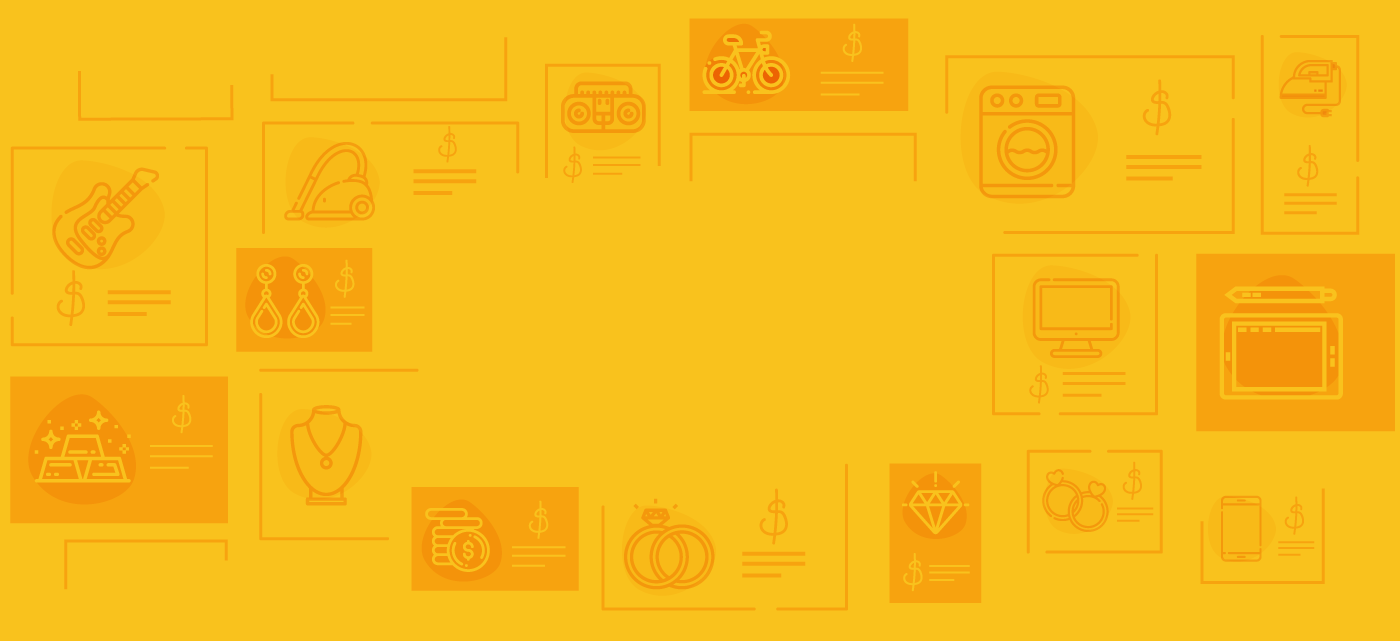
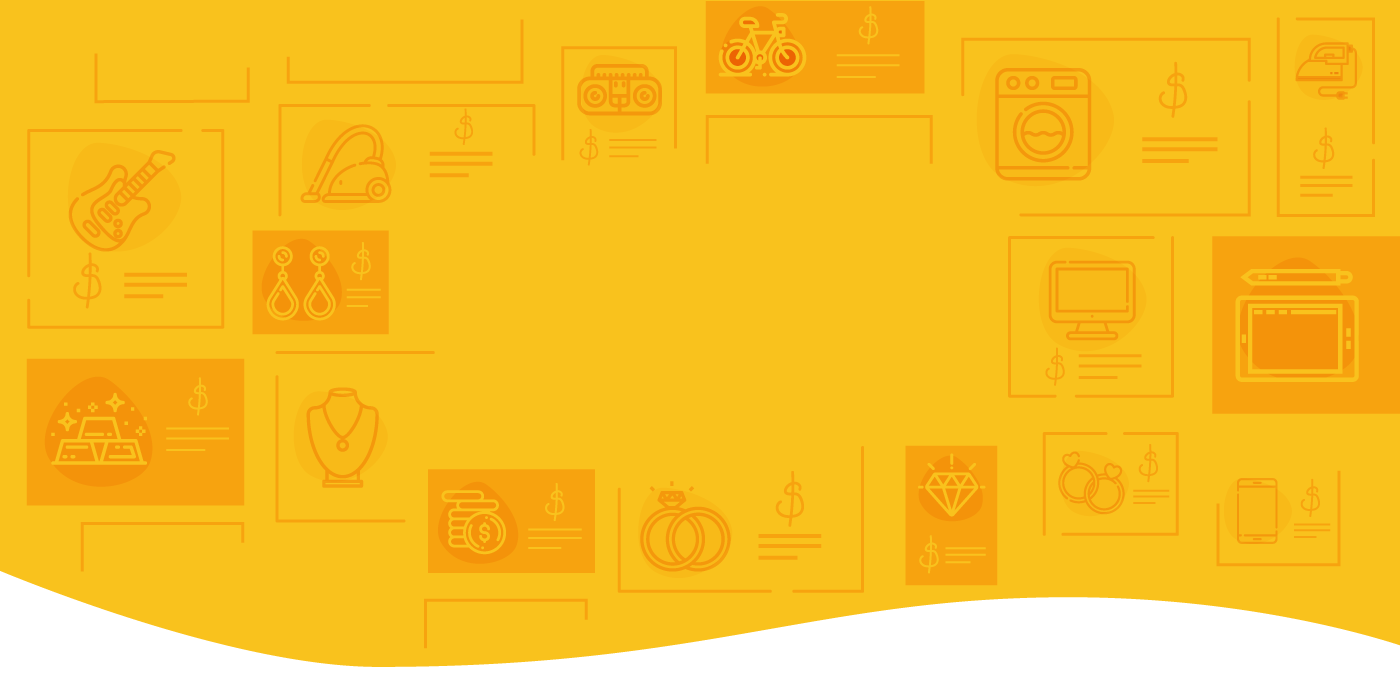
home ready

diff --git a/static/css/core.css b/static/css/core.css
@@ -1,1 +1,1 @@
-*,*::before,*::after{box-sizing:border-box}html{font-family:'Rubik', -apple-system, BlinkMacSystemFont, "Segoe UI", Roboto, Helvetica, Arial, sans-serif, "Apple Color Emoji", "Segoe UI Emoji", "Segoe UI Symbol";font-size:15px;-webkit-text-size-adjust:100%;-ms-text-size-adjust:100%;-ms-overflow-style:scrollbar;-webkit-tap-highlight-color:transparent}@-ms-viewport{width:device-width}article,aside,dialog,figcaption,figure,footer,header,hgroup,main,nav,section{display:block}body{margin:0;font-family:'Rubik', -apple-system, BlinkMacSystemFont, "Segoe UI", Roboto, "Helvetica Neue", Arial, sans-serif, "Apple Color Emoji", "Segoe UI Emoji", "Segoe UI Symbol";font-size:1rem;font-weight:300;color:#212529;text-align:left;background-color:#fff}[tabindex="-1"]:focus{outline:0 !important}hr{box-sizing:content-box;height:0;overflow:visible}h1,h2,h3,h4,h5,h6{margin-top:0;margin-bottom:.5em}p{margin-top:0;margin-bottom:1rem}abbr[title],abbr[data-original-title]{text-decoration:underline;-webkit-text-decoration:underline dotted;text-decoration:underline dotted;cursor:help;border-bottom:0}address{margin-bottom:1rem;font-style:normal;line-height:inherit}ol,ul,dl{margin-top:0;margin-bottom:1rem;padding-left:20px}ol ol,ul ul,ol ul,ul ol{margin-bottom:0}dt{font-weight:700}dd{margin-bottom:.5rem;margin-left:0}blockquote{margin:0 0 1rem}dfn{font-style:italic}b,strong{font-weight:bolder}small{font-size:80%}sub,sup{position:relative;font-size:75%;line-height:0;vertical-align:baseline}sub{bottom:-.25em}sup{top:-.5em}a{color:#007bff;text-decoration:none;background-color:transparent;-webkit-text-decoration-skip:objects}a:hover{color:#0056b3;text-decoration:none}a:not([href]):not([tabindex]){color:inherit;text-decoration:none}a:not([href]):not([tabindex]):hover,a:not([href]):not([tabindex]):focus{color:inherit;text-decoration:none}a:not([href]):not([tabindex]):focus{outline:0}pre,code,kbd,samp{font-family:monospace, monospace;font-size:1em}pre{margin-top:0;margin-bottom:1rem;overflow:auto;-ms-overflow-style:scrollbar}figure{margin:0 0 1rem}img{vertical-align:middle;border-style:none}svg:not(:root){overflow:hidden}table{border-collapse:collapse}caption{padding-top:0.75rem;padding-bottom:0.75rem;color:#6c757d;text-align:left;caption-side:bottom}th{text-align:inherit}label{display:inline-block;margin-bottom:5px}button{border-radius:0}button:focus{outline:1px dotted;outline:5px auto -webkit-focus-ring-color}input,button,select,optgroup,textarea{margin:0;font-family:inherit;font-size:inherit;line-height:inherit}button,input{overflow:visible}button,select{text-transform:none}button,html [type="button"],[type="reset"],[type="submit"]{-webkit-appearance:button}button::-moz-focus-inner,[type="button"]::-moz-focus-inner,[type="reset"]::-moz-focus-inner,[type="submit"]::-moz-focus-inner{padding:0;border-style:none}input[type="radio"],input[type="checkbox"]{box-sizing:border-box;padding:0}input[type="date"],input[type="time"],input[type="datetime-local"],input[type="month"]{-webkit-appearance:listbox}textarea{overflow:auto;resize:vertical}fieldset{min-width:0;padding:0;margin:0;border:0}legend{display:block;width:100%;max-width:100%;padding:0;margin-bottom:.5rem;font-size:1.5rem;line-height:inherit;color:inherit;white-space:normal}progress{vertical-align:baseline}[type="number"]::-webkit-inner-spin-button,[type="number"]::-webkit-outer-spin-button{height:auto}[type="search"]{outline-offset:-2px;-webkit-appearance:none}[type="search"]::-webkit-search-cancel-button,[type="search"]::-webkit-search-decoration{-webkit-appearance:none}::-webkit-file-upload-button{font:inherit;-webkit-appearance:button}output{display:inline-block}summary{display:list-item;cursor:pointer}template{display:none}[hidden]{display:none !important}.container{max-width:1000px;margin:0 auto;padding:0 1rem}.Top_row{display:flex;justify-content:space-between;align-items:center;height:65px}.Top_logo{height:45px}.Top_list{position:absolute;left:0;top:65px;right:0;display:flex;flex-direction:column;background:#fff}.Top_item{padding:10px 10px;color:#000;border-top:1px solid rgba(0,0,0,0.05)}.Top_menu_icon{width:20px;height:20px}.Top_list_desktop{display:none}.Top_item_button{color:rgba(0,0,0,0.75) !important;font-weight:bold;border:2px solid #000 !important;border-radius:2px !important}.Top_item_button:hover{color:#000}@media screen and (min-width: 600px){.Top_list{position:relative;left:0;top:0;right:0;display:flex;flex-direction:row;background:none}.Top_item{padding:5px 10px;color:#000;border-top:none}.Top_menu_icon{display:none}.Top_list_desktop{display:block}}.home-welcome{display:flex;flex-direction:column;justify-content:center;align-items:center;padding:100px 15px;margin-bottom:30px;text-align:center;background-color:#F1CF00;background-image:url("/static/img/cover.png");background-size:'cover';background-repeat:no-repeat;background-position:center}.home-welcome-img{width:100%;max-width:600px}.home-welcome-img img{width:100%}.home-welcome-btn{display:inline-block;min-width:250px;margin-top:30px;padding:15px 20px;color:#fff;font-weight:500;text-align:center;text-transform:uppercase;background-color:#000;border-radius:3px}.home-welcome-btn:hover{background-color:rgba(0,0,0,0.85);color:#fff}.home-steps{padding:50px 0 30px 0;font-size:1.1rem}.home-steps-title{margin-bottom:30px;font-size:1.75rem;text-align:center}.home-steps-row{display:flex;flex-direction:column;justify-content:space-between;align-items:center;padding-top:50px}.home-steps-list{order:2;flex-shrink:0;padding-left:0;width:100%}.home-steps-item{display:flex;align-items:center;list-style:none;margin-bottom:20px;cursor:pointer}.home-steps-item p{margin-bottom:0}.home-steps-circle{flex-shrink:0;display:flex;justify-content:center;align-items:center;width:50px;height:50px;margin-right:10px;font-weight:bold;background-color:#ccc;border-radius:50%}.home-steps-circle.active{background-color:#F1CF00}.home-steps-figures{order:1}.home-steps-figures img{width:100%}.home-benefits{padding:40px 10px 20px 10px;margin-bottom:30px;background-color:#FAFAFA;border-radius:3px}.home-benefits-row{display:flex;flex-direction:column}.home-benefits-half{flex:1;padding:0 20px}.home-products{padding:100px 0}.home-products-row{display:flex;flex-direction:column;align-items:center}.home-products-img{width:100%;max-width:400px;margin-bottom:1rem}.home-products-title{margin-bottom:left;font-size:1.75rem;text-align:center}.home-products-item{margin-top:30px}.home-products-item-header{display:flex;align-items:center;margin-bottom:5px}.home-products-item-header h4{margin-bottom:0}.home-products-item-img{width:35px;margin-right:7px}.home-choose{padding:100px 0px;background-color:#FBFCFE}.home-choose-title{margin-bottom:50px;font-size:1.75rem;text-align:center}.home-choose-list{display:flex;flex-wrap:wrap;justify-content:space-around}.home-choose-item{width:100%;text-align:center;margin-bottom:1rem}.home-choose-item img{width:200px}.cover{width:100%}.form-input{display:flex;align-items:center}.form-input label{margin-bottom:0}.label{font-weight:bold;margin-right:7px;font-size:14px}.input{height:38px;min-width:200px;padding:2px 8px;font-size:14px;font-weight:300;border:1px solid #ccc;border-radius:4px}.offices-header{margin:30px auto;max-width:550px;padding:30px 0;text-align:center}.offices-header h1{font-size:2rem}.offices-header p{font-size:1.2rem}.offices-links a{display:inline-block;padding:3px 0;margin:5px;color:#000;font-size:14px;border-bottom:1px solid #000}.offices-section{padding:30px 0}.offices-row{display:flex;flex-direction:column;justify-content:space-between;flex-wrap:wrap}.offices-item{width:100%;padding:20px;margin-bottom:20px;background-color:#FAFAFA}.cotizar-select{display:flex;flex-direction:row;justify-content:center;padding:1rem}.cotizar-select-item{flex-shrink:0;display:flex;align-items:center;justify-content:center;padding:15px;margin:2.5px;background-color:#FAFAFA;border:2px solid #FAFAFA;border-radius:3px;cursor:pointer}.cotizar-select-item:hover,.cotizar-select-item.active{font-weight:bold;border:2px solid #F1CF00}.cotizar-result{padding:50px 30px;margin-top:50px;font-size:17px;background-color:#FAFAFA}.cotizar-btn{display:block;width:220px;margin:20px auto 0 auto;padding:10px;color:#fff;font-size:15px;font-weight:bold;background-color:#000;border:2px solid transparent;border-radius:3px}.cotizar-btn:hover{color:#000;border:2px solid #000;background-color:transparent}.modal{display:block;position:fixed;z-index:1;left:0;top:0;width:100%;height:100%;overflow:auto;background-color:#000;background-color:rgba(0,0,0,0.4)}.modal-content{position:relative;background-color:#fefefe;margin:100px auto;padding:30px;width:90%;max-width:400px;border-radius:3px}.close{position:absolute;top:10px;right:10px;color:#aaa;float:right;font-size:28px;font-weight:bold}.close:hover,.close:focus{color:black;text-decoration:none;cursor:pointer}.form-row{display:flex;flex-direction:column;margin-bottom:15px;text-align:left}.form-row label{margin-bottom:10px}.form-btn{padding:10px 20px;color:#fff;background-color:#000;border-radius:3px;border:none}.radio{padding:5px}.Footer{margin:1rem 0;color:rgba(0,0,0,0.5)}@media screen and (min-width: 600px){.home-steps{padding:100px 0 50px 0}.home-steps-row{flex-direction:row}.home-steps-list{order:1;width:35%}.home-steps-title{text-align:left}.home-steps-figures{order:2;padding-left:50px}.home-benefits{padding:50px 30px 30px 30px}.home-benefits-row{flex-direction:row}.home-products-row{flex-direction:row}.home-products-img{width:50%;margin-bottom:0;margin-right:30px}.home-products-title{text-align:left}.home-choose-item{width:40%;text-align:center}.offices-row{flex-direction:row}.offices-item{width:32%}}
+*,*::before,*::after{box-sizing:border-box}html{font-family:'Rubik', -apple-system, BlinkMacSystemFont, "Segoe UI", Roboto, Helvetica, Arial, sans-serif, "Apple Color Emoji", "Segoe UI Emoji", "Segoe UI Symbol";font-size:15px;-webkit-text-size-adjust:100%;-ms-text-size-adjust:100%;-ms-overflow-style:scrollbar;-webkit-tap-highlight-color:transparent}@-ms-viewport{width:device-width}article,aside,dialog,figcaption,figure,footer,header,hgroup,main,nav,section{display:block}body{margin:0;font-family:'Rubik', -apple-system, BlinkMacSystemFont, "Segoe UI", Roboto, "Helvetica Neue", Arial, sans-serif, "Apple Color Emoji", "Segoe UI Emoji", "Segoe UI Symbol";font-size:1rem;font-weight:300;color:#212529;text-align:left;background-color:#fff}[tabindex="-1"]:focus{outline:0 !important}hr{box-sizing:content-box;height:0;overflow:visible}h1,h2,h3,h4,h5,h6{margin-top:0;margin-bottom:.5em}p{margin-top:0;margin-bottom:1rem}abbr[title],abbr[data-original-title]{text-decoration:underline;-webkit-text-decoration:underline dotted;text-decoration:underline dotted;cursor:help;border-bottom:0}address{margin-bottom:1rem;font-style:normal;line-height:inherit}ol,ul,dl{margin-top:0;margin-bottom:1rem;padding-left:20px}ol ol,ul ul,ol ul,ul ol{margin-bottom:0}dt{font-weight:700}dd{margin-bottom:.5rem;margin-left:0}blockquote{margin:0 0 1rem}dfn{font-style:italic}b,strong{font-weight:bolder}small{font-size:80%}sub,sup{position:relative;font-size:75%;line-height:0;vertical-align:baseline}sub{bottom:-.25em}sup{top:-.5em}a{color:#007bff;text-decoration:none;background-color:transparent;-webkit-text-decoration-skip:objects}a:hover{color:#0056b3;text-decoration:none}a:not([href]):not([tabindex]){color:inherit;text-decoration:none}a:not([href]):not([tabindex]):hover,a:not([href]):not([tabindex]):focus{color:inherit;text-decoration:none}a:not([href]):not([tabindex]):focus{outline:0}pre,code,kbd,samp{font-family:monospace, monospace;font-size:1em}pre{margin-top:0;margin-bottom:1rem;overflow:auto;-ms-overflow-style:scrollbar}figure{margin:0 0 1rem}img{vertical-align:middle;border-style:none}svg:not(:root){overflow:hidden}table{border-collapse:collapse}caption{padding-top:0.75rem;padding-bottom:0.75rem;color:#6c757d;text-align:left;caption-side:bottom}th{text-align:inherit}label{display:inline-block;margin-bottom:5px}button{border-radius:0}button:focus{outline:1px dotted;outline:5px auto -webkit-focus-ring-color}input,button,select,optgroup,textarea{margin:0;font-family:inherit;font-size:inherit;line-height:inherit}button,input{overflow:visible}button,select{text-transform:none}button,html [type="button"],[type="reset"],[type="submit"]{-webkit-appearance:button}button::-moz-focus-inner,[type="button"]::-moz-focus-inner,[type="reset"]::-moz-focus-inner,[type="submit"]::-moz-focus-inner{padding:0;border-style:none}input[type="radio"],input[type="checkbox"]{box-sizing:border-box;padding:0}input[type="date"],input[type="time"],input[type="datetime-local"],input[type="month"]{-webkit-appearance:listbox}textarea{overflow:auto;resize:vertical}fieldset{min-width:0;padding:0;margin:0;border:0}legend{display:block;width:100%;max-width:100%;padding:0;margin-bottom:.5rem;font-size:1.5rem;line-height:inherit;color:inherit;white-space:normal}progress{vertical-align:baseline}[type="number"]::-webkit-inner-spin-button,[type="number"]::-webkit-outer-spin-button{height:auto}[type="search"]{outline-offset:-2px;-webkit-appearance:none}[type="search"]::-webkit-search-cancel-button,[type="search"]::-webkit-search-decoration{-webkit-appearance:none}::-webkit-file-upload-button{font:inherit;-webkit-appearance:button}output{display:inline-block}summary{display:list-item;cursor:pointer}template{display:none}[hidden]{display:none !important}.container{max-width:1000px;margin:0 auto;padding:0 1rem}.Top_row{display:flex;justify-content:space-between;align-items:center;height:65px}.Top_logo{height:45px}.Top_list{position:absolute;left:0;top:65px;right:0;display:flex;flex-direction:column;background:#fff}.Top_item{padding:10px 10px;color:#000;border-top:1px solid rgba(0,0,0,0.05)}.Top_menu_icon{width:20px;height:20px}.Top_list_desktop{display:none}.Top_item_button{color:rgba(0,0,0,0.75) !important;font-weight:bold;border:2px solid #000 !important;border-radius:2px !important}.Top_item_button:hover{color:#000}@media screen and (min-width: 600px){.Top_list{position:relative;left:0;top:0;right:0;display:flex;flex-direction:row;background:none}.Top_item{padding:5px 10px;color:#000;border-top:none}.Top_menu_icon{display:none}.Top_list_desktop{display:block}}.home-welcome{display:flex;flex-direction:column;justify-content:center;align-items:center;padding:100px 15px;margin-bottom:30px;text-align:center;background-image:url("/static/img/cover.png");background-size:cover;background-repeat:no-repeat;background-position:center}.home-welcome-img{width:100%;max-width:600px}.home-welcome-img img{width:100%}.home-welcome-btn{display:inline-block;min-width:250px;margin-top:30px;padding:15px 20px;color:#fff;font-weight:500;text-align:center;text-transform:uppercase;background-color:#000;border-radius:3px}.home-welcome-btn:hover{background-color:rgba(0,0,0,0.85);color:#fff}.home-steps{padding:50px 0 30px 0;font-size:1.1rem}.home-steps-title{margin-bottom:30px;font-size:1.75rem;text-align:center}.home-steps-row{display:flex;flex-direction:column;justify-content:space-between;align-items:center;padding-top:50px}.home-steps-list{order:2;flex-shrink:0;padding-left:0;width:100%}.home-steps-item{display:flex;align-items:center;list-style:none;margin-bottom:20px;cursor:pointer}.home-steps-item p{margin-bottom:0}.home-steps-circle{flex-shrink:0;display:flex;justify-content:center;align-items:center;width:50px;height:50px;margin-right:10px;font-weight:bold;background-color:#ccc;border-radius:50%}.home-steps-circle.active{background-color:#F1CF00}.home-steps-figures{order:1}.home-steps-figures img{width:100%}.home-benefits{padding:40px 10px 20px 10px;margin-bottom:30px;background-color:#FAFAFA;border-radius:3px}.home-benefits-row{display:flex;flex-direction:column}.home-benefits-half{flex:1;padding:0 20px}.home-products{padding:100px 0;font-size:17px}.home-products-row{display:flex;flex-direction:column;align-items:center}.home-products-img{width:100%;max-width:400px;margin-bottom:1rem}.home-products-title{font-size:1.75rem;text-align:center}.home-products-title::after{display:block;content:' ';width:50px;height:4px;margin-top:10px;margin-bottom:30px;background-color:#000}.home-products-item{margin-top:30px}.home-products-item-header{display:flex;align-items:center;margin-bottom:5px}.home-products-item-header h4{margin-bottom:0}.home-products-item-img{width:35px;margin-right:7px}.home-choose{padding:100px 0px;background-color:#FBFCFE}.home-choose-title{margin-bottom:50px;font-size:1.75rem;text-align:center}.home-choose-title::after{display:block;content:' ';width:50px;height:4px;margin-left:auto;margin-right:auto;margin-top:10px;margin-bottom:30px;background-color:#000}.home-choose-list{display:flex;flex-wrap:wrap;justify-content:space-around}.home-choose-item{display:flex;flex-direction:column;align-items:center;width:100%;max-width:700px;margin:0rem auto;padding:30px;font-size:17px;text-align:center}.home-choose-item img{width:250px;margin-bottom:1rem}.home-choose-item.right{flex-direction:column-reverse}.cover{width:100%}.form-input{display:flex;align-items:center}.form-input label{margin-bottom:0}.label{font-weight:bold;margin-right:7px;font-size:14px}.input{height:38px;min-width:200px;padding:2px 8px;font-size:14px;font-weight:300;border:1px solid #ccc;border-radius:4px}.offices-header{margin:30px auto;max-width:550px;padding:30px 0;text-align:center}.offices-header h1{font-size:2rem}.offices-header p{font-size:1.2rem}.offices-links a{display:inline-block;padding:3px 0;margin:5px;color:#000;font-size:14px;border-bottom:1px solid #000}.offices-section{padding:30px 0}.offices-row{display:flex;flex-direction:column;justify-content:space-between;flex-wrap:wrap}.offices-item{width:100%;padding:20px;margin-bottom:20px;background-color:#FAFAFA}.cotizar-select{display:flex;flex-direction:row;justify-content:center;padding:1rem}.cotizar-select-item{flex-shrink:0;display:flex;align-items:center;justify-content:center;padding:15px;margin:2.5px;background-color:#FAFAFA;border:2px solid #FAFAFA;border-radius:3px;cursor:pointer}.cotizar-select-item:hover,.cotizar-select-item.active{font-weight:bold;border:2px solid #F1CF00}.cotizar-result{padding:50px 30px;margin-top:50px;font-size:17px;background-color:#FAFAFA}.cotizar-btn{display:block;width:220px;margin:20px auto 0 auto;padding:10px;color:#fff;font-size:15px;font-weight:bold;background-color:#000;border:2px solid transparent;border-radius:3px}.cotizar-btn:hover{color:#000;border:2px solid #000;background-color:transparent}.modal{display:block;position:fixed;z-index:1;left:0;top:0;width:100%;height:100%;overflow:auto;background-color:#000;background-color:rgba(0,0,0,0.4)}.modal-content{position:relative;background-color:#fefefe;margin:100px auto;padding:30px;width:90%;max-width:400px;border-radius:3px}.close{position:absolute;top:10px;right:10px;color:#aaa;float:right;font-size:28px;font-weight:bold}.close:hover,.close:focus{color:black;text-decoration:none;cursor:pointer}.form-row{display:flex;flex-direction:column;margin-bottom:15px;text-align:left}.form-row label{margin-bottom:10px}.form-btn{padding:10px 20px;color:#fff;background-color:#000;border-radius:3px;border:none}.radio{padding:5px}.Footer{margin:1rem 0;color:rgba(0,0,0,0.5)}.home-servicios-list{margin-top:10px}.home-servicios-list li{padding:5px 0}@media screen and (min-width: 600px){.home-steps{padding:100px 0 50px 0}.home-steps-row{flex-direction:row}.home-steps-list{order:1;width:35%}.home-steps-title{text-align:left}.home-steps-figures{order:2;padding-left:50px}.home-benefits{padding:50px 30px 30px 30px}.home-benefits-row{flex-direction:row}.home-products-row{flex-direction:row}.home-products-img{width:50%;margin-bottom:0;margin-right:30px}.home-products-title{text-align:left}.home-choose-item{flex-direction:row;text-align:left}.home-choose-item.right{flex-direction:row}.offices-row{flex-direction:row}.offices-item{width:32%}}

diff --git a/pages/index.js b/pages/index.js
@@ -138,26 +138,34 @@ class Home extends Component {
               <div className="home-choose-list">
                 <div className="home-choose-item">
                   <img src="/static/img/seguridad.png" alt=""/>
-                  <h4>Por seguridad</h4>
-                  <p>Compraventas Pactemos es la única empresa en Colombia en la que tus artículos son custodiados y guardados por una empresa de valores hasta que tu decidas regresar por ellas, eso te da la garantía de que tus joyas cuentan con un seguro sin generar costos adicionales.</p>
+                  <div>
+                    <h3>Por seguridad</h3>
+                    <p>Compraventas Pactemos es la única empresa en Colombia en la que tus artículos son custodiados y guardados por una empresa de valores hasta que tu decidas regresar por ellas, eso te da la garantía de que tus joyas cuentan con un seguro sin generar costos adicionales.</p>
+                  </div>
                 </div>
 
-                <div className="home-choose-item">
+                <div className="home-choose-item right">
+                  <div>
+                    <h3>Personal calificado</h3>
+                    <p>Tenemos más de 60 colaboradores capacitados para brindar un buen servicio y la mejor atención, además cuentan con amplios conocimientos y gran experiencia para valorar tus artículos de manera profesional.</p>
+                  </div>
                   <img src="/static/img/calificado.png" alt=""/>
-                  <h4>Personal calificado</h4>
-                  <p>Tenemos más de 60 colaboradores capacitados para brindar un buen servicio y la mejor atención, además cuentan con amplios conocimientos y gran experiencia para valorar tus artículos de manera profesional.</p>
                 </div>
 
                 <div className="home-choose-item">
                   <img src="/static/img/respaldo.png" alt=""/>
-                  <h4>Cuentas con mayor respaldo</h4>
-                  <p>Somos una empresa en constante crecimiento, organizada y con procesos administrativos transparentes que permiten que nuestros clientes tengan total confianza a la hora de realizar sus transacciones.</p>
+                  <div>
+                    <h3>Cuentas con mayor respaldo</h3>
+                    <p>Somos una empresa en constante crecimiento, organizada y con procesos administrativos transparentes que permiten que nuestros clientes tengan total confianza a la hora de realizar sus transacciones.</p>
+                  </div>
                 </div>
                 
-                <div className="home-choose-item">
+                <div className="home-choose-item right">
+                  <div>
+                    <h3>Hacemos todo lo posible para que recupere su articulo</h3>
+                    <p>Le avisamos por SMS, mail, llamadas telefónicas, whatsapp, o personalmente el tiempo de su artículo.</p>
+                  </div>
                   <img src="/static/img/recuperacion.png" alt=""/>
-                  <h4>Hacemos todo lo posible para que recupere su articulo</h4>
-                  <p>Le avisamos por SMS, mail, llamadas telefónicas, whatsapp, o personalmente el tiempo de su artículo.</p>
                 </div>
               </div>
             </div>
@@ -166,14 +174,14 @@ class Home extends Component {
           <div className="container">
             <section className="home-products">
               <div className="home-products-row">
-                <img className="home-products-img" src="/static/img/productos.png" alt=""/>
+                <img className="home-products-img" src="/static/img/mas-servicios.png" alt=""/>
                 <div>
-                  <h2 className="home-products-title">Además de ofrecerte dinero inmediato, en compraventas pactemos podrás</h2>
+                  <h2 className="home-products-title">Además de ofrecerte dinero inmediato, en Compraventas Pactemos podrás</h2>
                   <p>Comprar lo que necesites, joyas de oro y plata, electrodomésticos, herramientas, tecnología, bicicletas y mucho más.</p>
 
                   <div>
                     <h4>¿Porque comprar en nuestras compraventas?</h4>
-                    <ul>
+                    <ul className="home-servicios-list">
                       <li>Nuestros artículos usados se venden con precios sorprendentes y lo mejor con Garantía.</li>
                       <li>Vendemos artículos totalmente nuevos con garantía.</li>
                       <li>Te entregamos factura, así que su compra es totalmente legal, en caso de algún reclamo.</li>

diff --git a/static/sass/_pages.scss b/static/sass/_pages.scss
@@ -7,9 +7,9 @@
   padding: 100px 15px;
   margin-bottom: 30px;
   text-align: center;
-  background-color: #F1CF00;
+  // background-color: #F1CF00;
   background-image: url('/static/img/cover.png');
-  background-size: 'cover';
+  background-size: cover;
   background-repeat: no-repeat;
   background-position: center;
   // border-radius: 3px;
@@ -106,6 +106,7 @@
 }
 .home-products {
   padding: 100px 0;
+  font-size: 17px;
 }
 .home-products-row {
   display: flex;
@@ -118,9 +119,17 @@
   margin-bottom: 1rem;
 }
 .home-products-title {
-  margin-bottom: left;
   font-size: 1.75rem;
   text-align: center;
+  &::after {
+    display: block;
+    content: ' ';
+    width: 50px;
+    height: 4px;
+    margin-top: 10px;
+    margin-bottom: 30px;
+    background-color: #000;
+  }
 }
 .home-products-item {
   margin-top: 30px;
@@ -145,6 +154,17 @@
   margin-bottom: 50px;
   font-size: 1.75rem;
   text-align: center;
+  &::after {
+    display: block;
+    content: ' ';
+    width: 50px;
+    height: 4px;
+    margin-left: auto;
+    margin-right: auto;
+    margin-top: 10px;
+    margin-bottom: 30px;
+    background-color: #000;
+  }
 }
 .home-choose-list {
   display: flex;
@@ -152,12 +172,21 @@
   justify-content: space-around;
 }
 .home-choose-item {
+  display: flex;
+  flex-direction: column;
+  align-items: center;
   width: 100%;
+  max-width: 700px;
+  margin: 0rem auto;
+  padding: 30px;
+  font-size: 17px;
   text-align: center;
-  margin-bottom: 1rem;
   img {
-    width: 200px;
-    // height: 120px;
+    width: 250px;
+    margin-bottom: 1rem;
+  }
+  &.right {
+    flex-direction: column-reverse;
   }
 }
 // Elements
@@ -336,7 +365,12 @@
   margin: 1rem 0;
   color: rgba(0,0,0,.5);
 }
-
+.home-servicios-list {
+  margin-top: 10px;
+  li {
+    padding: 5px 0;
+  }
+}
 @media screen and (min-width: 600px) {
   .home-steps {
     padding: 100px 0 50px 0;
@@ -373,8 +407,11 @@
     text-align: left;
   }
   .home-choose-item {
-    width: 40%;
-    text-align: center;
+    flex-direction: row;
+    text-align: left;
+    &.right {
+      flex-direction: row;
+    }
   }
   .offices-row {
     flex-direction: row;
